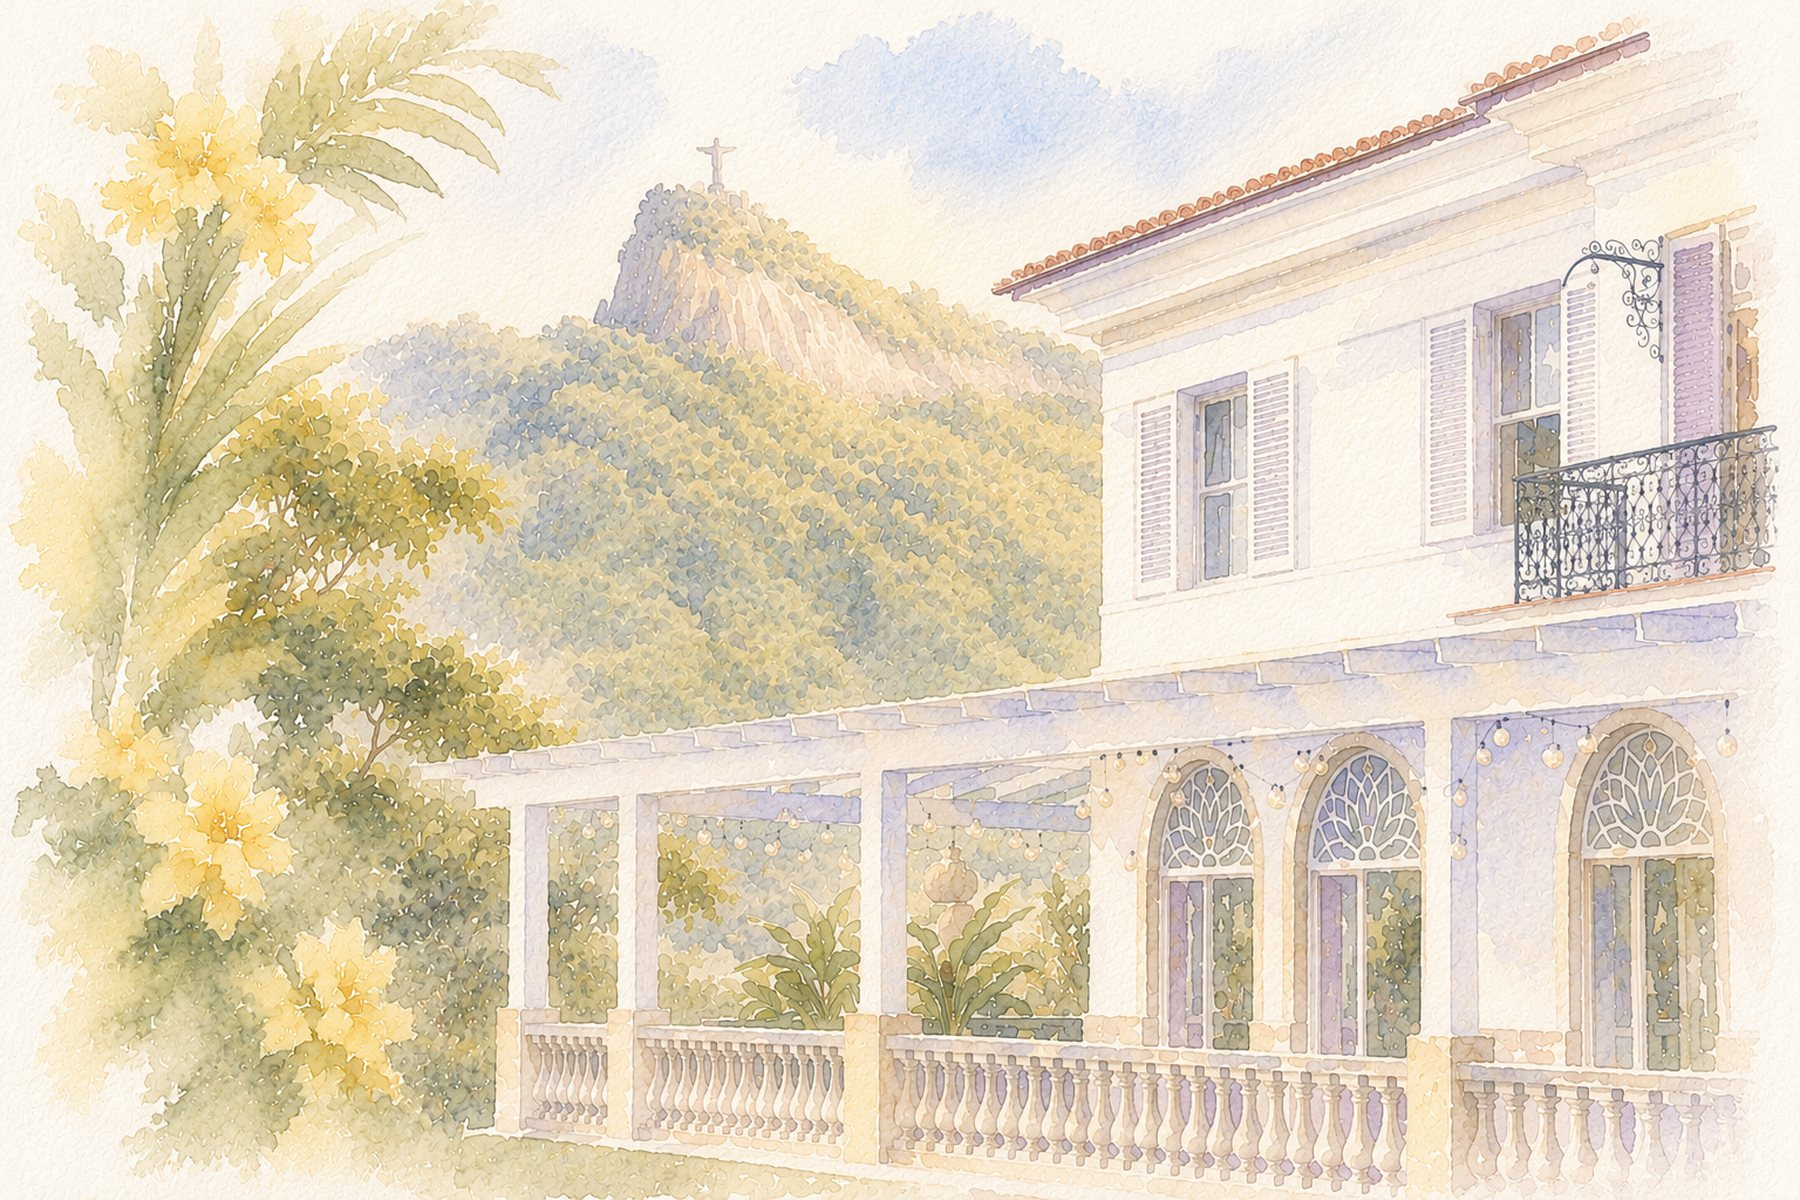
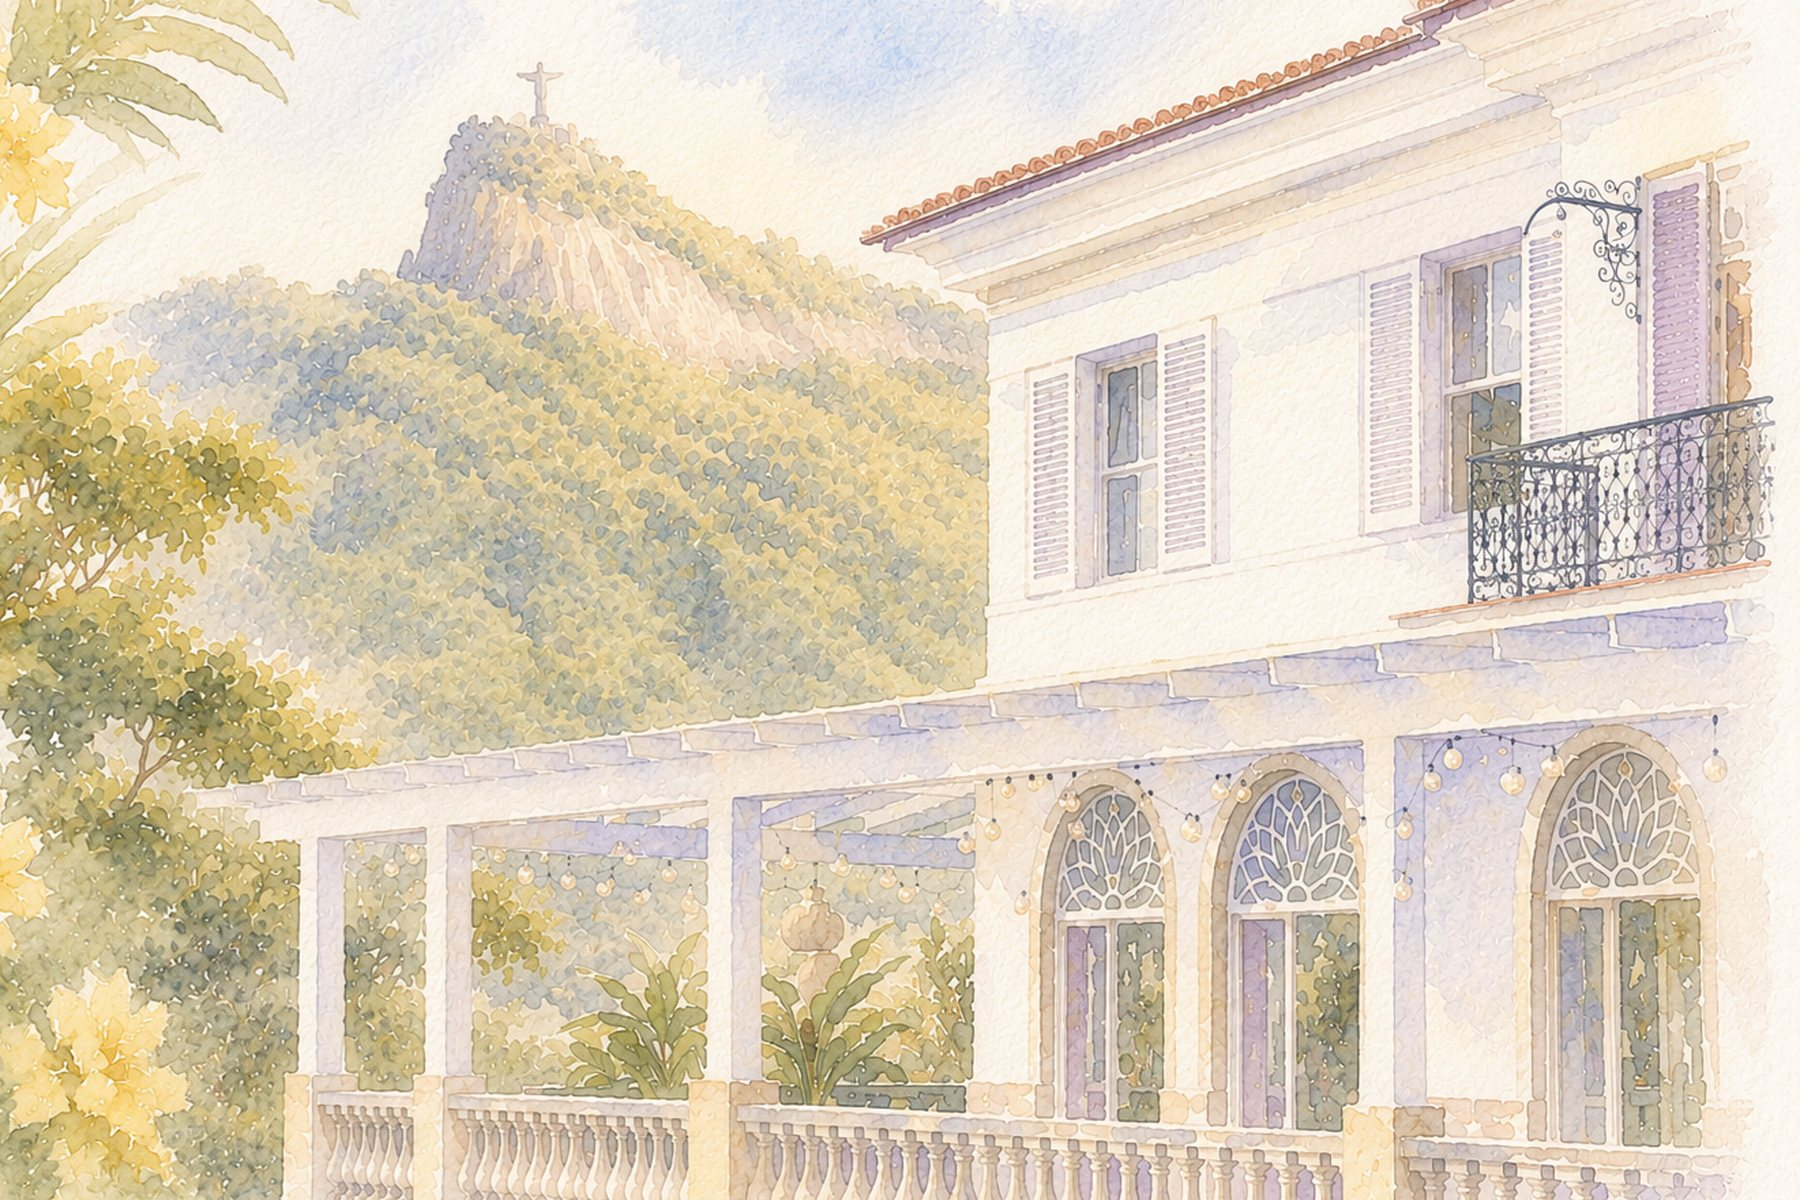
outra aquarela no hero, com o Cristo e a casa juntos no celular
A arte passa a ser "20_41_18 - Copia.png": mesma varanda, enquadramento mais
aberto, e a casa inteira entrando pela direita.

A ancora do recorte retrato foi de 0.38 para 0.46, e desta vez foi medida na
tela, nao na arte. O motivo de nao dar para calcular de cabeca: o recorte 3:4
nao e o que o celular mostra. A tela e mais estreita que 3:4, entao o
`object-fit: cover` come as laterais do recorte antes de chegar ao olho, e
sobra so o miolo. Em 0.46 esse miolo pega o Cristo a um quinto da borda
esquerda e a casa entrando pela direita com telhado, parede e um arco.

Conferido em 360x800, 393x932 e 430x932, que e onde o corte aperta mais, e em
1440x900. Quem mexer nessa ancora precisa repetir a conferencia.

A arte nova e 1.29:1, e nao 3:2 como a anterior, entao o recorte do hero largo
agora tira altura: um pouco de ceu em cima, um pouco de gramado embaixo.

Claude-Session: https://claude.ai/code/session_01VRk9hmEKKB6wX4wvv824Uu

diff --git a/scripts/gerar-imagens.py b/scripts/gerar-imagens.py
@@ -25,7 +25,7 @@ DESTINO = os.path.join(RAIZ, "assets", "img")
 AQUARELAS = os.path.join(FONTE, "Aquarelas", "Aquarela paleta (atual)")
 
 # As escolhas de cada arte, e o porque de cada uma.
-VARANDA_CORCOVADO = os.path.join(AQUARELAS, "ChatGPT Image 18 de jun. de 2026, 20_41_18.png")  # hero: a varanda do casarao com o Corcovado ao fundo
+VARANDA_CORCOVADO = os.path.join(AQUARELAS, "ChatGPT Image 18 de jun. de 2026, 20_41_18 - Copia.png")  # hero: a varanda do casarao com o Corcovado ao fundo
 CASAL_MANSAO = os.path.join(AQUARELAS, "ChatGPT Image 18 de ago. de 2026, 12_57_29.png")   # compartilhamento: o casal, o casarao e o Cristo
 VISTA_RIO = os.path.join(AQUARELAS, "ChatGPT Image 18 de ago. de 2026, 12_24_25.png")      # local: o Pao de Acucar visto do mirante
 CASAL_VARANDA = os.path.join(AQUARELAS, "ChatGPT Image 18 de jun. de 2026, 20_33_40.png")  # faixa: o casal na varanda
@@ -70,18 +70,24 @@ def recortar_proporcao(im, proporcao, ancora=0.5):
 def main():
     os.makedirs(DESTINO, exist_ok=True)
 
-    # 1. Hero -- a arte ja nasce em 3:2, entao o recorte so confirma a proporcao.
+    # 1. Hero -- a arte nasce em 1.29:1, entao o recorte 3:2 tira altura: um
+    #    pouco de ceu em cima, um pouco de gramado embaixo.
     hero = recortar_proporcao(abrir(VARANDA_CORCOVADO), 3 / 2, ancora=0.5)
     salvar_par(hero, "hero-varanda", 1800, qualidade=84)
 
     # 1b. Hero em retrato -- no celular o corte 3:2 ampliaria um pedaco liso da
     #     parede e a aquarela viraria um degrade. Este recorte vertical mantem o
-    #     Corcovado, as flores e o inicio da varanda dentro da tela. A ancora
-    #     esta a esquerda do centro porque a tela do celular e mais estreita que
-    #     3:4: o `object-fit: cover` ainda come as laterais deste recorte.
+    #     Cristo e um pedaco da casa dentro da tela ao mesmo tempo.
+    #
+    #     A ancora nao e o centro do que aparece no celular. A tela do celular e
+    #     mais estreita que 3:4, entao o `object-fit: cover` ainda come as
+    #     laterais deste recorte, e sobra so o miolo. Por isso 0.46 foi medido
+    #     na tela, e nao na arte: nela o Cristo cai a um quinto da borda
+    #     esquerda e a casa entra pela direita com telhado, parede e um arco.
+    #     Mexer aqui pede outra rodada de conferencia no navegador.
     retrato = abrir(VARANDA_CORCOVADO).convert("RGB")
     alvo_l = round(retrato.height * 3 / 4)
-    esq = min(max(round(retrato.width * 0.38 - alvo_l / 2), 0), retrato.width - alvo_l)
+    esq = min(max(round(retrato.width * 0.46 - alvo_l / 2), 0), retrato.width - alvo_l)
     retrato = retrato.crop((esq, 0, esq + alvo_l, retrato.height))
     salvar_par(retrato, "hero-varanda-retrato", 900, qualidade=84)
 
